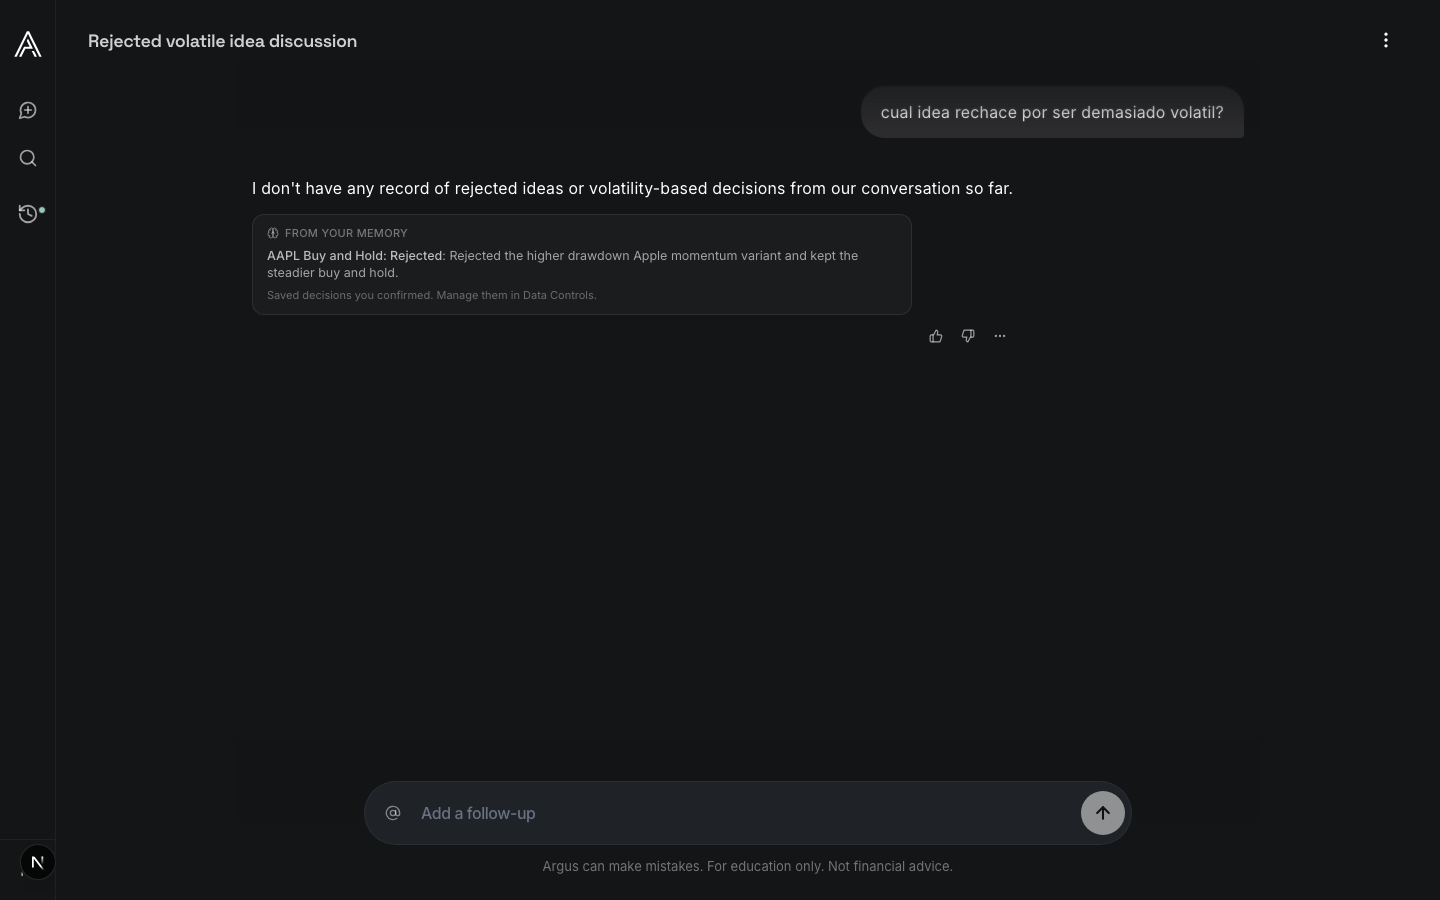
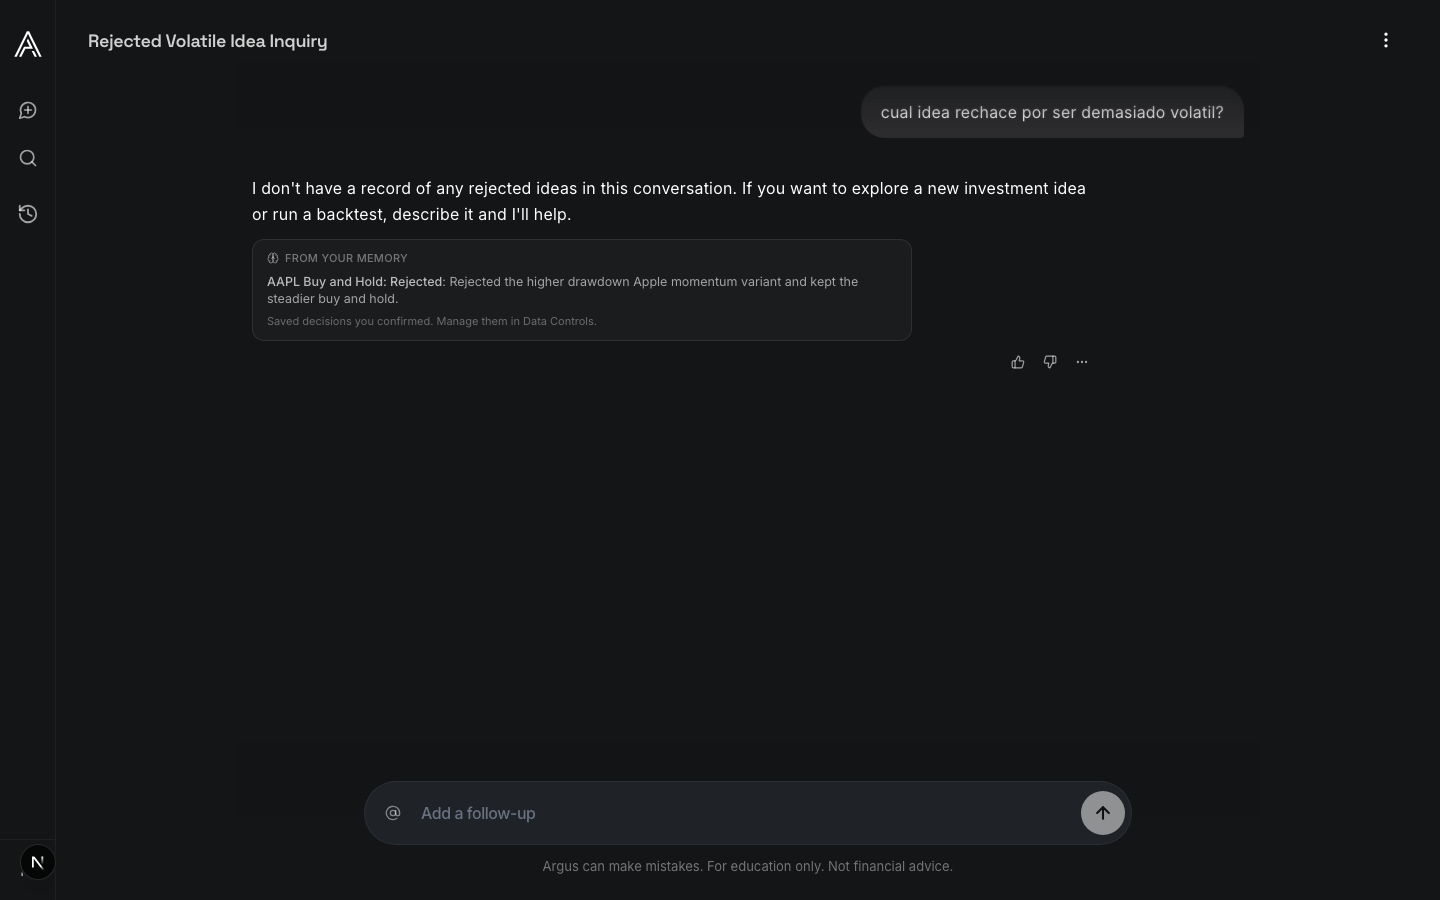
docs(memory): re-capture recall evidence at the merged head
Integration moved mid-lane, so the browser journey, the retrieval A/B, and the
flag-off digests were all re-measured against the current base rather than
carried forward from the pre-merge head.

Changed region(s): [[0.1875, 0.1867, 0.75, 0.3733], [0.125, 0.0311, 0.25, 0.0622]]

diff --git a/docs/reports/evidence/2026-08-07-memory-semantic-recall/README.md b/docs/reports/evidence/2026-08-07-memory-semantic-recall/README.md
@@ -23,7 +23,7 @@ Rejected the higher drawdown Apple momentum variant and kept the steadier buy an
 | Query | Token overlap with the memory | Canonical token match | With the index |
 | --- | --- | --- | --- |
 | `which idea did I turn down for being too volatile?` | none | cannot answer | `provider_ranked`, score 0.3101 |
-| `cual idea rechace por ser demasiado volatil?` | none | cannot answer | `provider_ranked`, score 0.3044 |
+| `cual idea rechace por ser demasiado volatil?` | none | cannot answer | `provider_ranked`, score 0.3330 |
 
 The canonical fallback ranks by `len(query_tokens & record_tokens)` over tokens
 longer than two characters and returns nothing when that intersection is empty.
@@ -96,31 +96,43 @@ for the same turn.
 
 ## Flag-off byte identity
 
-Cross-commit, base `635d5ee8` versus lane head, flags off, two runs per side:
+Cross-commit, flags off, two runs per side. The harness hashes the OpenAPI
+document, the profile payload, conversation create and list, three chat turns
+including every SSE event, message hydration, and history. Volatile ids,
+timestamps, durations, and opaque pagination cursors are normalized by the
+harness, which lives outside the code under test so both sides normalize
+identically. Floats are hashed at full precision.
 
-| Surface | Digest |
-| --- | --- |
[8 lines of base64/hex data omitted]
+Measured twice, because integration moved mid-lane:
 
-Identical on both sides and stable across repeated runs, so the match is a
-result rather than a coincidence of timing.
+| Comparison | Combined digest | Result |
+| --- | --- | --- |
[2 lines of base64/hex data omitted]
+
+The digest differs between the two rows because the integration branch itself
+changed underneath, which is the point: each row compares a base against a head
+built on that base. Both sides were run twice and were stable, so the match is
+a result rather than a coincidence of timing.
 
 ## Screenshots
+
+Captured at the merged lane head against the local Supabase stack, real
+OpenRouter runtime, real Perplexity embeddings.
 
 | File | What it shows |
 | --- | --- |
 | `en-01-signed-in.png` | Signed-in surface, English |
-| `en-02-recall-note.png` | English recall note answering a zero-token-overlap query |
+| `en-02-backtest-result.png` | The real backtest the decision is saved from |
+| `en-03-memory-proposal.png` | The proposal asking before anything is stored |
+| `en-04-recall-note.png` | English recall note answering a zero-token-overlap query |
 | `es-419-01-signed-in.png` | Signed-in surface, es-419 |
 | `es-419-02-recall-note.png` | es-419 recall note answering the Spanish query |
 | `en-page-text.txt`, `es-419-page-text.txt` | Captured page text for both locales |
+
+The English run is the whole journey: backtest, save decision, confirm the
+memory proposal, then ask. The es-419 run asks only, against the memory the
+English run confirmed, which is what makes it a cross-language recall.
 
 ## Two honest observations
 
